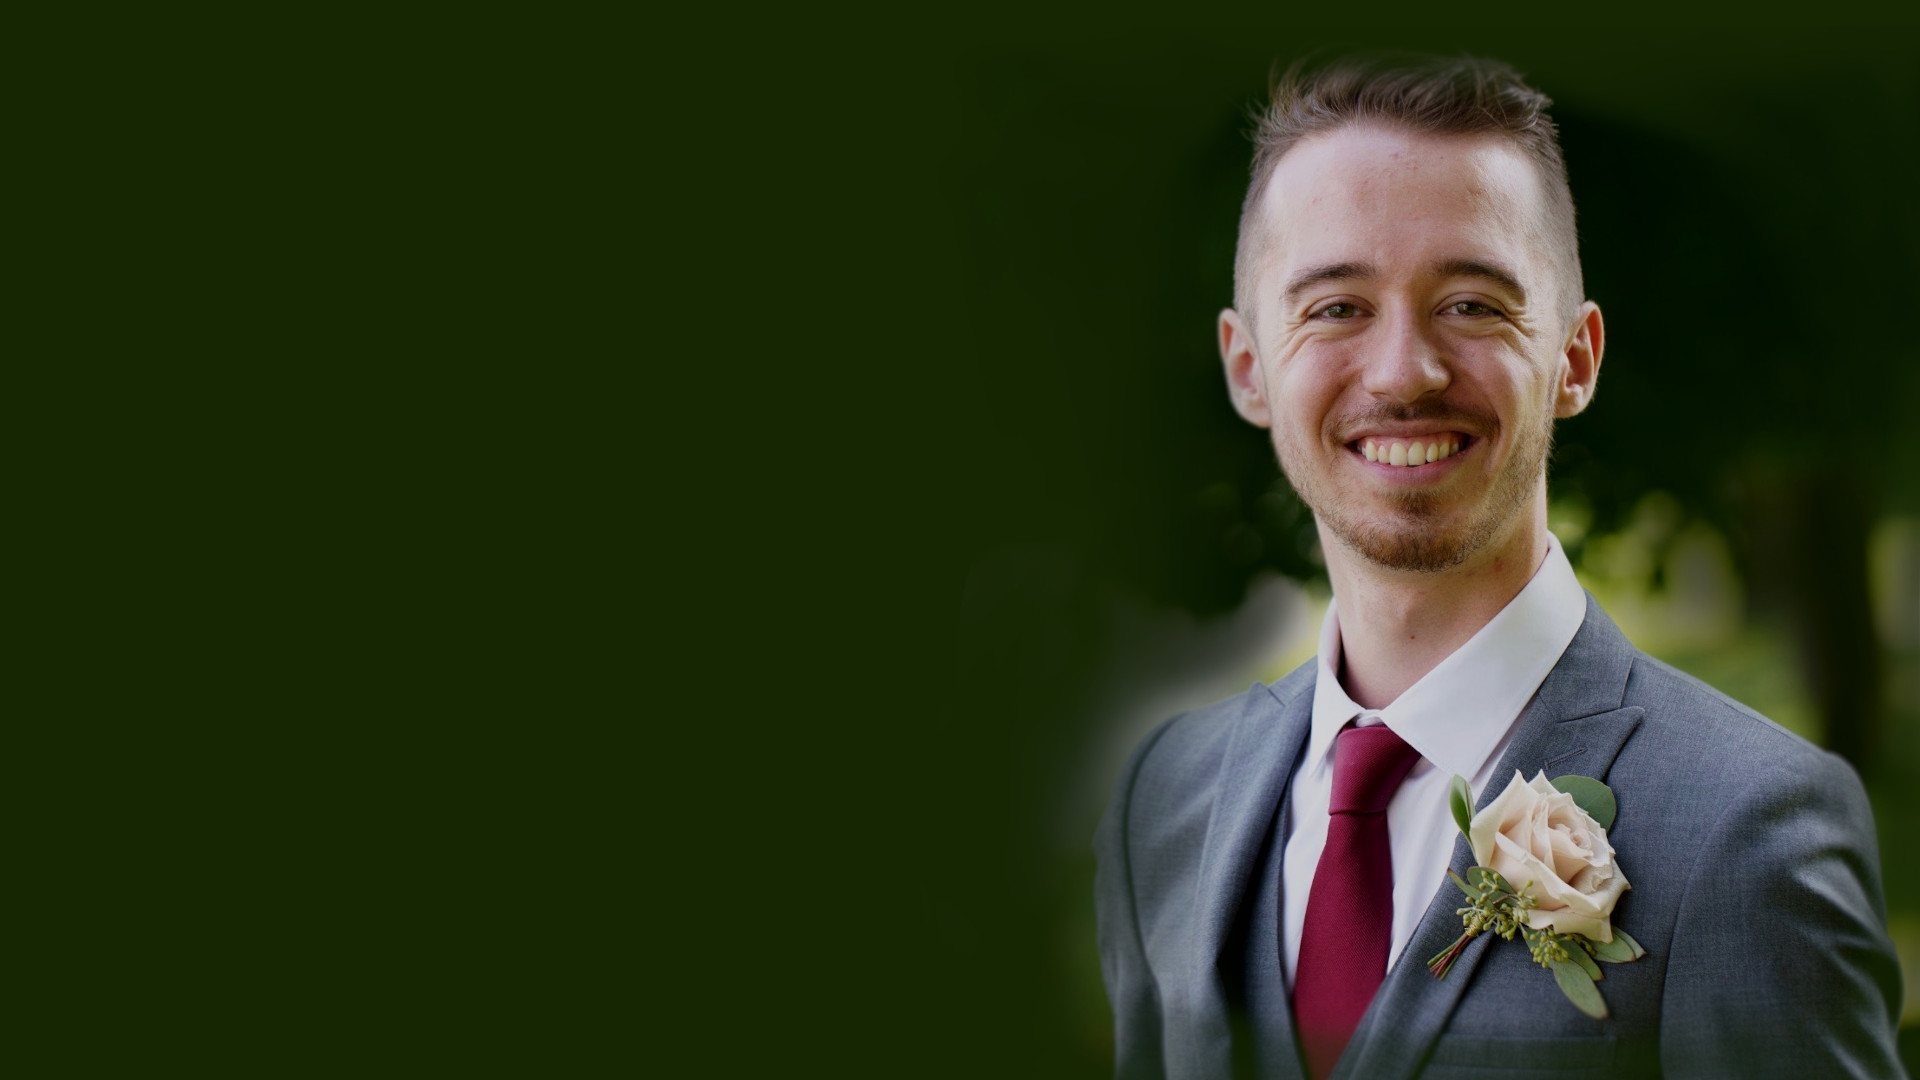
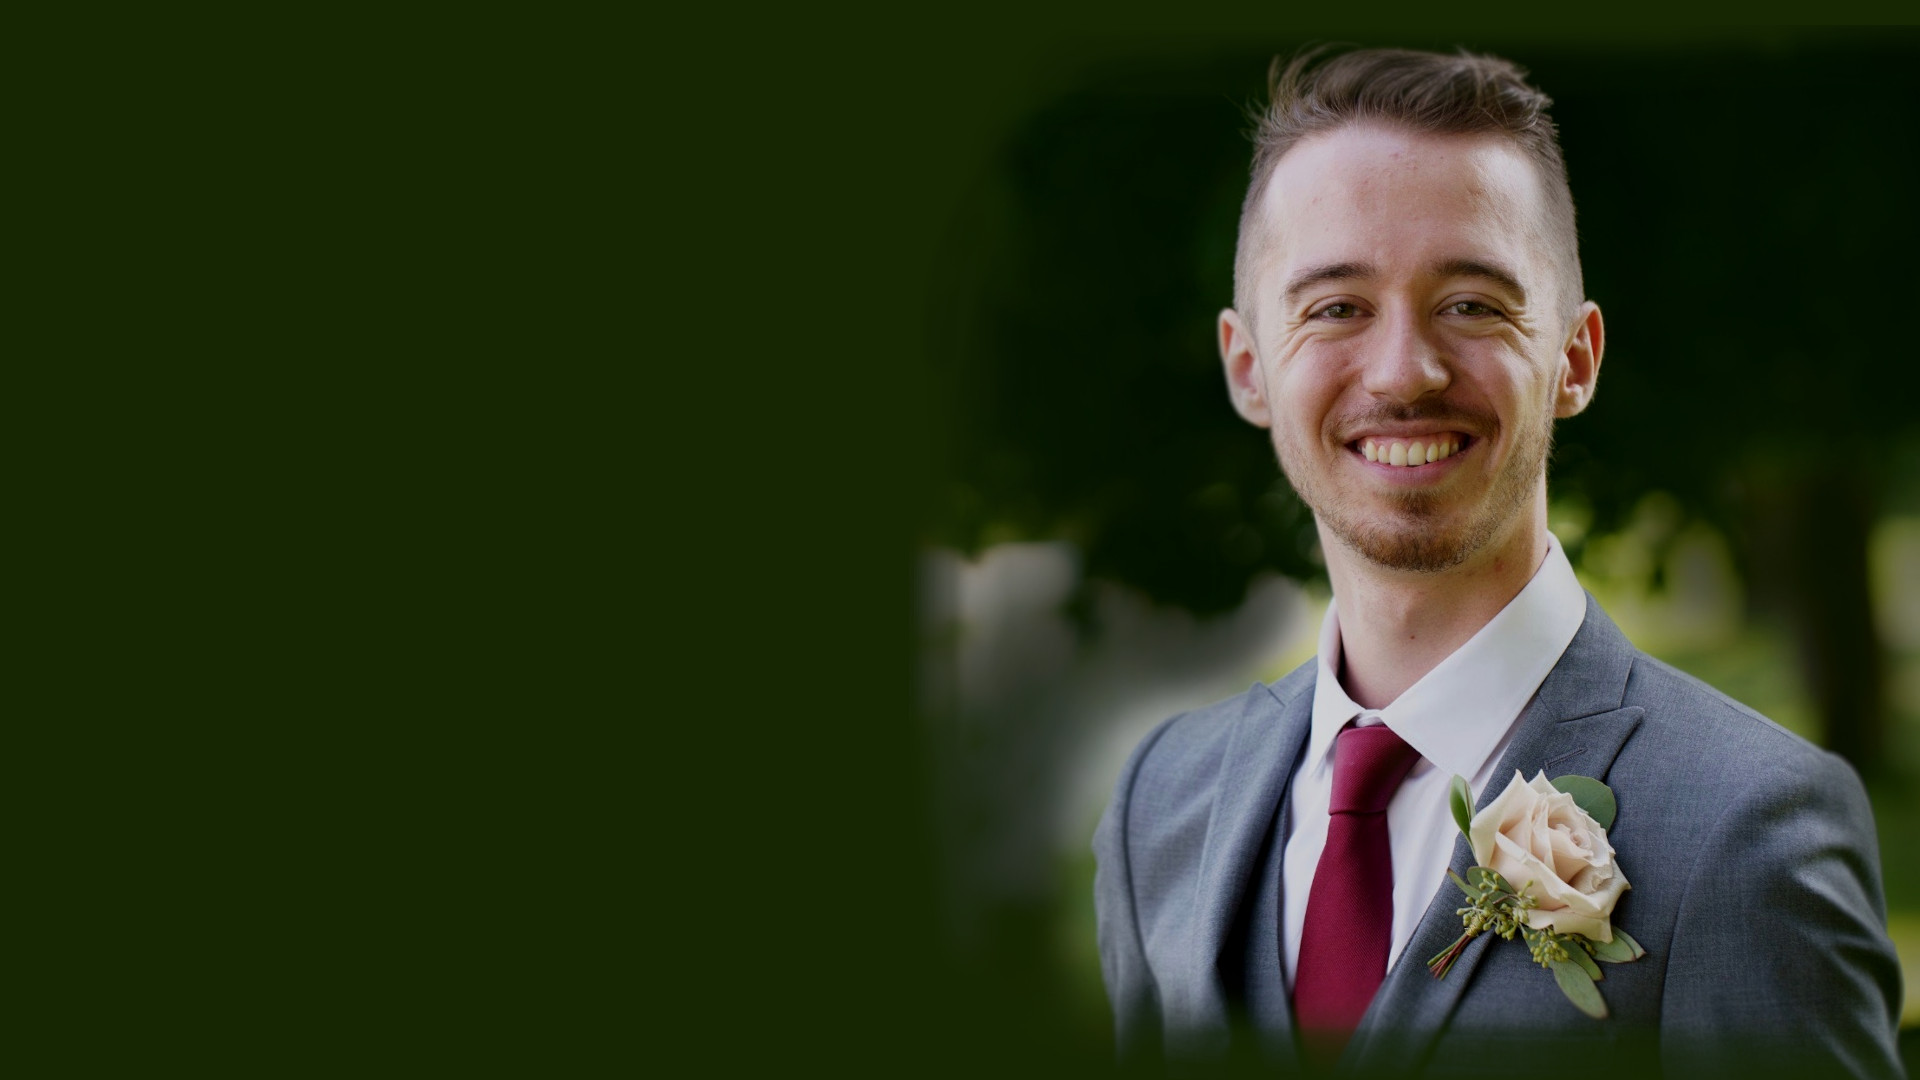
Updated color scheme and background image

diff --git a/css/style.css b/css/style.css
@@ -14,10 +14,15 @@
 }
 
 :root {
-    --bg-color: #081b29;
+    --bg-color: #162602;
+    --second-bg-color: #576312;
+    --text-color: #ededed;
+    --main-color: #b7c223;
+    
+    /*--bg-color: #081b29;
     --second-bg-color: #112e42;
     --text-color: #ededed;
-    --main-color: #00abf0;
+    --main-color: #00abf0;*/
 }
 
 html {
